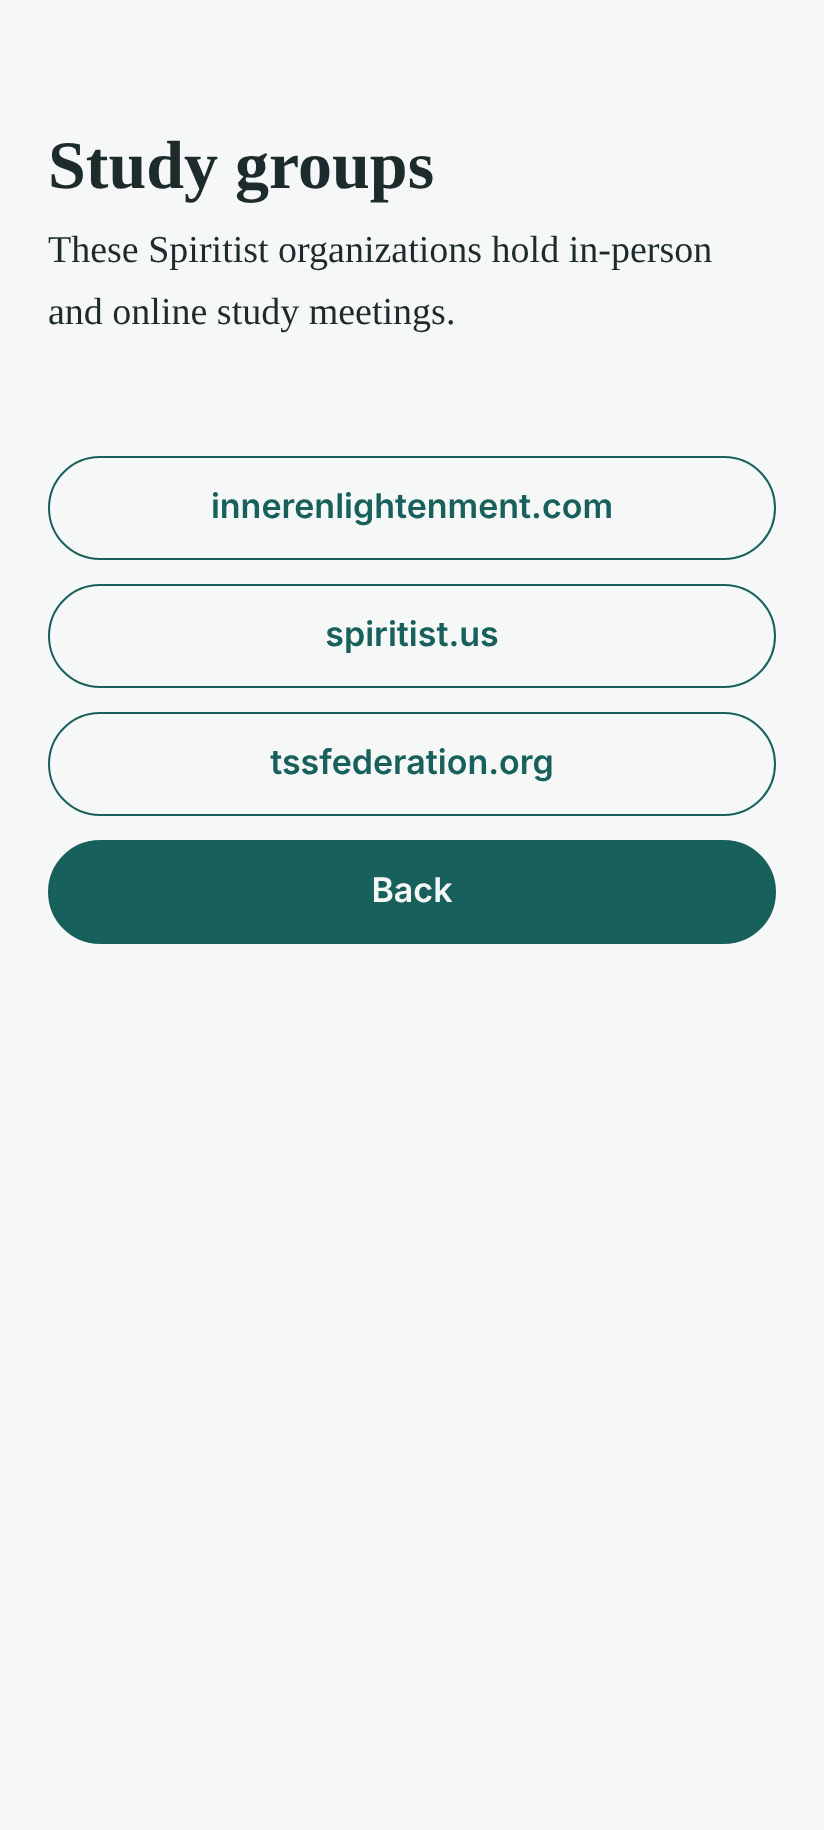
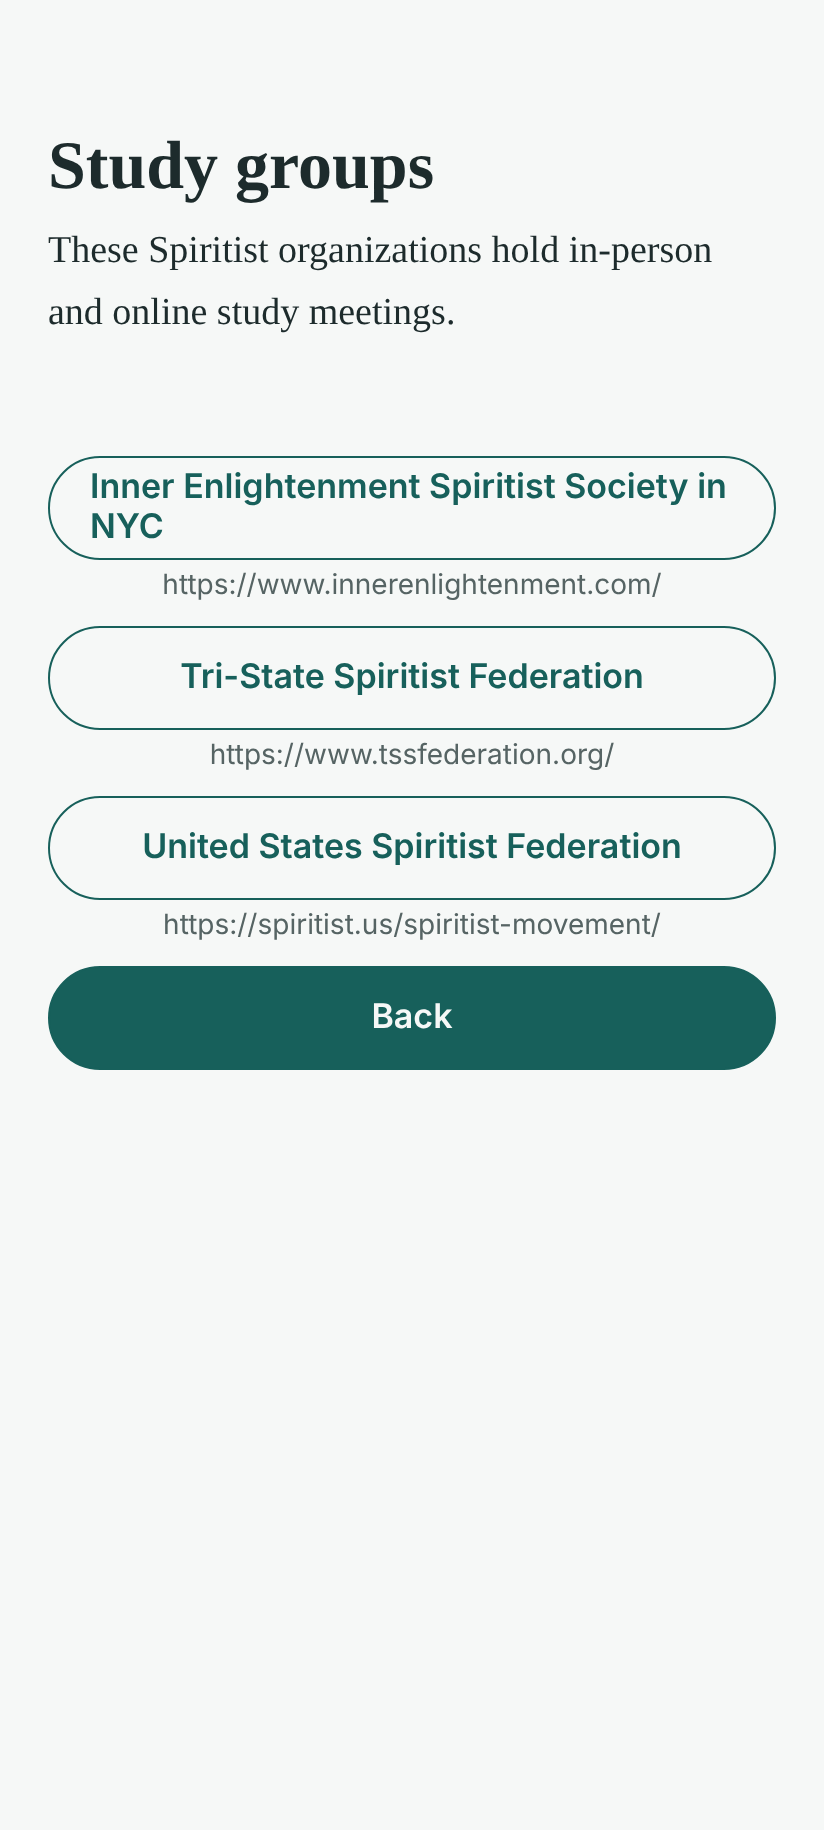
Study groups show each organization's full name and website (review on #104)
Claude-Session: https://claude.ai/code/session_01HDQcRv5znRo4L5WVwq4xgk

Changed region(s): [[0.0607, 0.2492, 0.9405, 0.5918]]

diff --git a/mobile/App.tsx b/mobile/App.tsx
@@ -229,7 +229,10 @@ export default function App() {
         <Text style={styles.paragraph}>{labels[settings.language].studyGroupsIntro}</Text>
         <View style={styles.actions}>
           {studyGroups.map((group) => (
-            <Action key={group.url} title={group.name} onPress={() => Linking.openURL(group.url)} />
+            <View key={group.url}>
+              <Action title={group.name} onPress={() => Linking.openURL(group.url)} />
+              <Text style={styles.website}>{group.url}</Text>
+            </View>
           ))}
           <Action title="Back" onPress={() => setScreen('message')} main />
         </View>
@@ -359,6 +362,7 @@ const styles = StyleSheet.create({
   original: { fontStyle: 'italic', color: colors.muted, borderLeftWidth: 3, borderColor: colors.rule, paddingLeft: 12 },
   translation: { fontSize: 14, fontStyle: 'italic', color: colors.muted, marginTop: 24 },
   backButton: { marginTop: 32 },
+  website: { fontSize: 14, color: colors.muted, textAlign: 'center', marginTop: 4 },
   bookTitle: { fontFamily: 'serif', fontSize: 24, fontWeight: '600', color: colors.ink, marginTop: 36, marginBottom: 8 },
   indexItem: { fontFamily: 'serif', fontSize: 18, color: colors.spring, paddingVertical: 14, borderBottomWidth: 1, borderColor: colors.rule },
 });

diff --git a/scripts/build-site.ts b/scripts/build-site.ts
@@ -110,7 +110,7 @@ class Website {
   // UC-19: links to Spiritist organizations that hold study meetings.
   studyGroupsPage(content: Content): string {
     const labels = this.labels[content.language];
-    const groups = this.studyGroups.map((g) => `<li><a href="${g.url}">${escapeHtml(g.name)}</a></li>`).join('\n');
+    const groups = this.studyGroups.map((g) => `<li><a href="${g.url}">${escapeHtml(g.name)}<br><small>${g.url}</small></a></li>`).join('\n');
     const body = this.render('study-groups', {
       index: labels.index,
       studyGroups: labels.studyGroups,

diff --git a/website/style.css b/website/style.css
@@ -33,6 +33,7 @@ ul { list-style: none; padding: 0; margin: 0; }
 li { border-bottom: 1px solid var(--rule); }
 li a { display: block; padding: 0.6rem 0; text-decoration: none; }
 li a:hover { text-decoration: underline; }
+li small { color: var(--muted); }
 
 /* The top bar: the main action on the left, the languages on the right. */
 nav { display: flex; flex-wrap: wrap; align-items: center; justify-content: space-between; gap: 0.75rem; }
